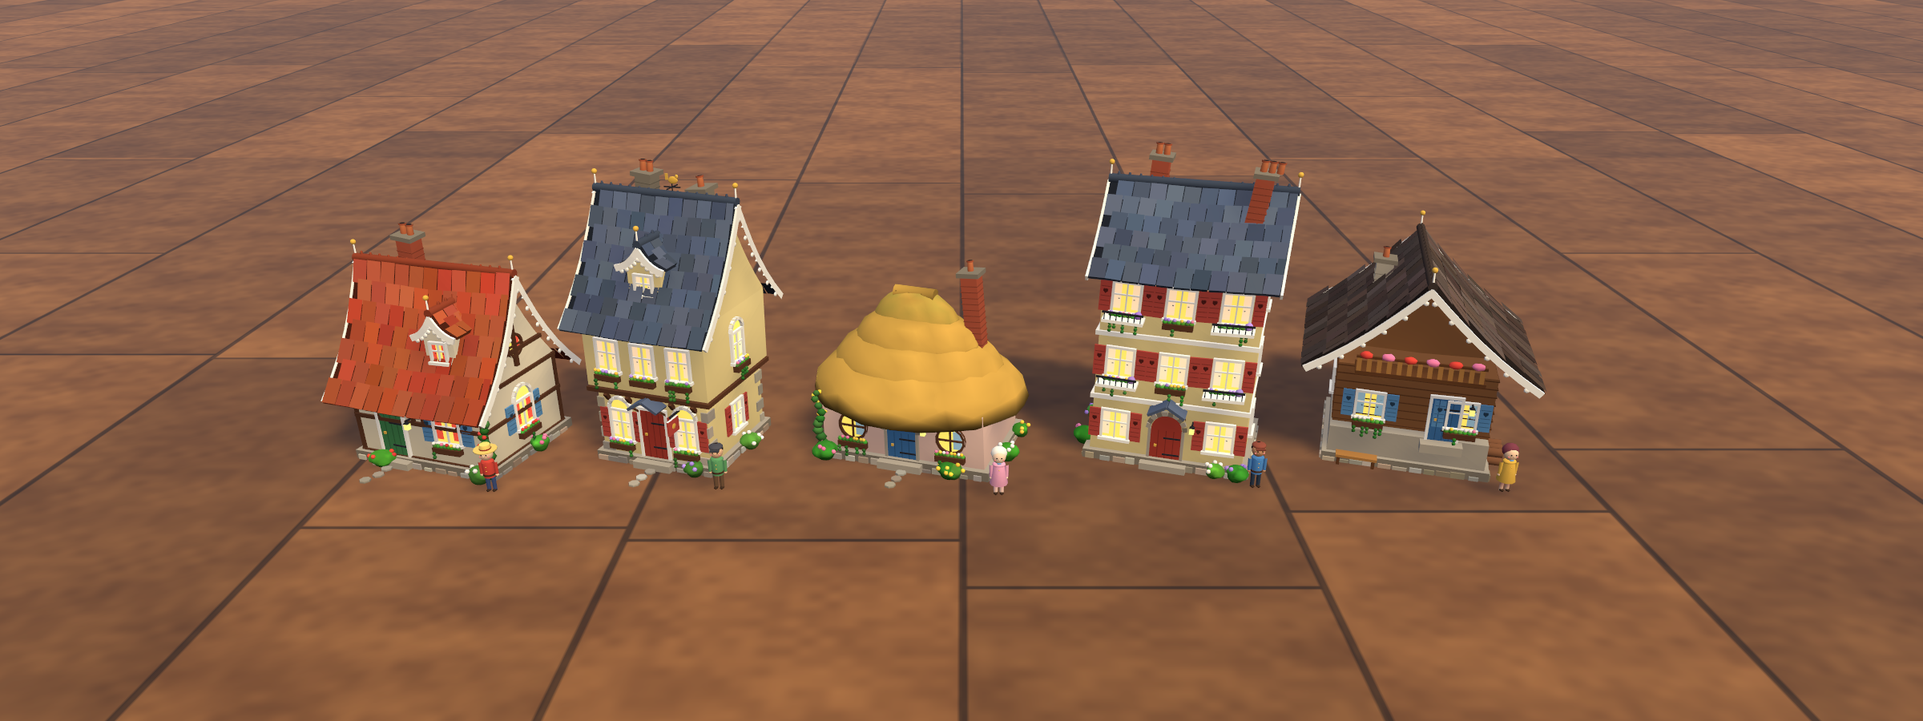
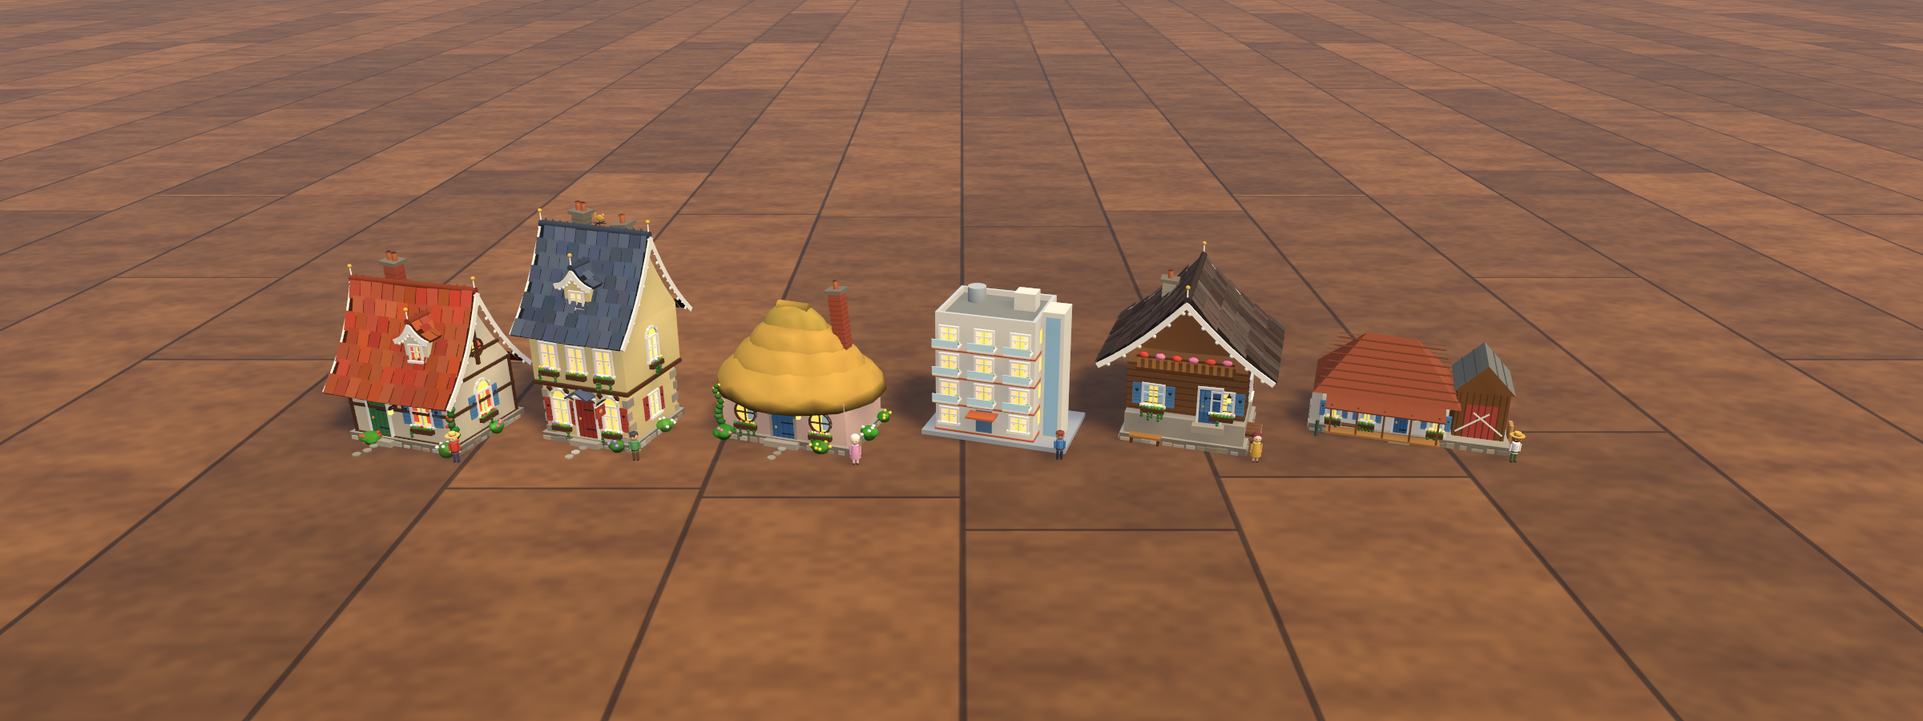
A real railway station, modern apartments, a farmhouse and a theatre
- Station: a two-storey booking hall under a hipped roof and a clock tower with its lantern, single-storey wings
  either side, and along the platform an iron-and-glass canopy on cast columns with brackets and a saw-tooth
  valance, a hanging clock, the nameboard and benches (it was a cottage with an awning).
- Apartments: a modern flat-roofed block - four storeys of windows and balconies with glass railings and plants,
  a glass stair tower, an entrance canopy, a tank and lift housing on the roof (it was a big gabled townhouse).
- New: the farmhouse (Homes > Country), long and low under a deep half-hipped roof, its timber barn wing with big
  doors, a porch with a bench, a pump and a woodpile - home to a farming family; and the theatre (Town > Civic):
  six columns under a pediment, THEATRE in light bulbs over the doors, posters, and the tall fly tower behind. It
  opens 18-23 with an usher, and draws its audience in the evening.

Tests: journey 397, rail, town and interaction suites pass.

diff --git a/Assets/Wonderland/Scripts/Assets/HouseFactory.Overhaul.cs b/Assets/Wonderland/Scripts/Assets/HouseFactory.Overhaul.cs
@@ -16,7 +16,8 @@ namespace Wonderland
     {
         /// <summary>Whether a building has its own design here (and its signs with it).</summary>
         private static bool IsOverhauled(int id) => id is Catalog.Bakery or Catalog.Cafe or Catalog.Grocer or Catalog.Restaurant or Catalog.FurnitureShop or Catalog.IceCream
-            or Catalog.Pub or Catalog.PostOffice or Catalog.School or Catalog.FireStation or Catalog.Police or Catalog.Hospital or Catalog.Hotel;
+            or Catalog.Pub or Catalog.PostOffice or Catalog.School or Catalog.FireStation or Catalog.Police or Catalog.Hospital or Catalog.Hotel
+            or Catalog.Apartments or Catalog.Farmhouse or Catalog.Theatre;
 
         private static float Overhauled(MeshBuilder b, ref Rng rng, Style s, int id, int style, out bool warp)
         {
@@ -40,7 +41,12 @@ namespace Wonderland
                 case Catalog.Police: return PoliceBlock(b, ref rng);
                 case Catalog.Hospital: return HospitalWings(b, ref rng);
                 case Catalog.Hotel: return GrandHotel(b, ref rng, s);
+                case Catalog.Apartments: return ApartmentBlock(b, ref rng, s, style);
+                case Catalog.Theatre: return TheatreHouse(b, ref rng, s);
             }
+            warp = true;
+            if (id == Catalog.Farmhouse) return FarmhouseLong(b, ref rng, s);
+            warp = false;
             return -1f;
         }
 
@@ -605,6 +611,178 @@ namespace Wonderland
                 b.Pop();
             }
             return 0.004f + wallH + 0.05f;
+        }
+
+        // ---------------------------------------------------------------- the rest of the town
+
+        /// <summary>
+        /// The railway station: a two-storey booking hall under a hipped roof with its clock tower and lantern, a
+        /// single-storey wing either side, and along the platform (the front, -Z) an iron-and-glass canopy on cast columns
+        /// with brackets, a clock hanging from it, the nameboard, benches and the way out through tall arched doors.
+        /// </summary>
+        private static float RailwayStation(MeshBuilder b, ref Rng rng, Style s)
+        {
+            const float back = 0.01f;   // (the building stands back from the platform's edge, under the canopy)
+            var brick = Pal.Hex("#B4644A"); var stone = Pal.Hex("#EDE3CC"); var iron = Pal.Hex("#2E4A3E"); var roof = Pal.Hex("#4A4E5A");
+            b.AddBox(new Vector3(0f, 0.002f, back), new Vector3(0.12f, 0.004f, 0.052f), Pal.Hex("#B9B2A4"));
+            // The hall and its wings.
+            b.AddBox(new Vector3(0f, 0.004f + 0.03f, back + 0.006f), new Vector3(0.05f, 0.06f, 0.04f), brick, brick, brick);
+            HipRoof(b, new Vector3(0f, 0.064f, back + 0.006f), 0.05f, 0.04f, 0.022f, roof);
+            foreach (int sx in new[] { -1, 1 })
+            {
+                b.AddBox(new Vector3(sx * 0.042f, 0.004f + 0.018f, back + 0.008f), new Vector3(0.034f, 0.036f, 0.034f), brick, brick, brick);
+                HipRoof(b, new Vector3(sx * 0.042f, 0.04f, back + 0.008f), 0.034f, 0.034f, 0.014f, roof);
+                for (int k = 0; k < 2; k++) WallWindow(b, ref rng, s, new Vector3(sx * 0.042f + (k - 0.5f) * 0.016f, 0.022f, back - 0.0092f), Vector3.back, 0.009f, 0.016f, false, false, true);
+            }
+            b.AddBox(new Vector3(0f, 0.04f, back - 0.014f), new Vector3(0.052f, 0.002f, 0.001f), stone);   // a string course
+            foreach (int sx in new[] { -1, 0, 1 })
+                if (sx == 0) WallDoor(b, ref rng, s, new Vector3(0f, 0.004f, back - 0.014f), Vector3.back, 0.014f, 0.03f, true);
+                else WallWindow(b, ref rng, s, new Vector3(sx * 0.016f, 0.024f, back - 0.014f), Vector3.back, 0.01f, 0.02f, false, false, true);
+            for (int k = 0; k < 3; k++) WallWindow(b, ref rng, s, new Vector3((k - 1) * 0.016f, 0.052f, back - 0.014f), Vector3.back, 0.008f, 0.012f);
+            // The clock tower with its lantern.
+            var tower = new Vector3(0f, 0.07f, back + 0.006f);
+            b.AddBox(tower + Vector3.up * 0.015f, new Vector3(0.018f, 0.03f, 0.018f), brick, brick, brick);
+            b.Push(tower + new Vector3(0f, 0.02f, -0.0092f), Quaternion.FromToRotation(Vector3.up, Vector3.back));
+            b.AddCylinder(Vector3.zero, 0.0065f, 0.0065f, 0.001f, 16, Pal.Brass, Pal.Glow(Pal.Hex("#FFF6E0")), true);
+            b.Pop();
+            b.AddBox(tower + Vector3.up * 0.031f, new Vector3(0.021f, 0.002f, 0.021f), stone);
+            foreach (int sx in new[] { -1, 1 }) foreach (int sz in new[] { -1, 1 }) b.AddBox(tower + new Vector3(sx * 0.007f, 0.037f, sz * 0.007f), new Vector3(0.0018f, 0.01f, 0.0018f), stone);
+            b.AddCylinder(tower + Vector3.up * 0.042f, 0.012f, 0.0008f, 0.018f, 4, roof, Pal.Shade(roof, 1.2f), true, false, false, Mathf.PI / 4f);
+            WeatherVane(b, tower + Vector3.up * 0.06f);
+            // The platform canopy: glass on iron, columns with brackets, a valance of saw-tooth boards.
+            const float cz = -0.026f, cw = 0.12f;
+            b.Push(new Vector3(0f, 0.034f, cz + 0.006f), Quaternion.Euler(-8f, 0f, 0f));
+            b.AddBox(Vector3.zero, new Vector3(cw, 0.0012f, 0.028f), new Color(0.78f, 0.88f, 0.9f, 1f));
+            if (!b.TooSmall(0.002f)) for (int k = 0; k <= 12; k++) b.AddBox(new Vector3(-cw / 2 + k * cw / 12f, 0.0008f, 0f), new Vector3(0.0009f, 0.0009f, 0.028f), iron);
+            b.Pop();
+            for (int k = 0; k < 5; k++)
+            {
+                float x = -cw / 2 + 0.008f + k * (cw - 0.016f) / 4f;
+                b.AddCylinder(new Vector3(x, 0.004f, cz - 0.004f), 0.0011f, 0.0009f, 0.029f, 8, iron, iron, false);
+                if (!b.TooSmall(0.002f)) { b.Push(new Vector3(x, 0.03f, cz - 0.002f), Quaternion.Euler(45f, 0f, 0f)); b.AddBox(Vector3.zero, new Vector3(0.0008f, 0.008f, 0.0008f), iron); b.Pop(); }
+            }
+            if (!b.TooSmall(0.002f)) for (int k = 0; k < 24; k++) b.AddTriangleOutward(new Vector3(-cw / 2 + k * cw / 24f, 0.032f, cz - 0.0075f), new Vector3(-cw / 2 + (k + 1) * cw / 24f, 0.032f, cz - 0.0075f), new Vector3(-cw / 2 + (k + 0.5f) * cw / 24f, 0.028f, cz - 0.0075f), new Vector3(0f, 0.03f, 0f), Pal.Hex("#F2E3C2"));
+            // The hanging clock, the nameboard, benches.
+            b.AddBox(new Vector3(0.02f, 0.03f, cz - 0.002f), new Vector3(0.0006f, 0.004f, 0.0006f), iron);
+            b.AddCylinder(new Vector3(0.02f, 0.027f, cz - 0.0045f), 0.0035f, 0.0035f, 0.005f, 14, Pal.Hex("#F7F1E6"), Pal.Hex("#F7F1E6"), true, true, true);
+            Lettering.Board(b, "STATION", new Vector3(-0.02f, 0.024f, cz - 0.004f), Vector3.back, 0.0034f, Pal.Hex("#1F3E7A"), Pal.Hex("#F7F1E6"), iron);
+            foreach (float x in new[] { -0.042f, 0.042f }) { b.AddBox(new Vector3(x, 0.008f, cz + 0.004f), new Vector3(0.016f, 0.0012f, 0.005f), Pal.Hex("#8A5A34")); b.AddBox(new Vector3(x, 0.011f, cz + 0.0065f), new Vector3(0.016f, 0.004f, 0.0009f), Pal.Hex("#8A5A34")); }
+            return 0.11f;
+        }
+
+        /// <summary>
+        /// Apartments: a modern four-storey block, flat-roofed, its front a grid of windows and balconies with railings
+        /// and plants, a glass stair tower to one side, an entrance canopy, and a water tank and lift housing on the roof.
+        /// </summary>
+        private static float ApartmentBlock(MeshBuilder b, ref Rng rng, Style s, int style)
+        {
+            const float w = 0.1f, d = 0.07f, h = 0.1f;
+            var walls = new[] { Pal.Hex("#E8E2D6"), Pal.Hex("#D9C8B4"), Pal.Hex("#C8D4D8"), Pal.Hex("#E2D2C2") };
+            var wall = walls[style % 4]; var accent = new[] { Pal.Hex("#C8653A"), Pal.Hex("#3E6A8A"), Pal.Hex("#5A8A4A"), Pal.Hex("#8A4A5A") }[style % 4];
+            b.AddBox(new Vector3(0f, 0.002f, 0f), new Vector3(w + 0.024f, 0.004f, d + 0.006f), Pal.Hex("#A6AAB0"));
+            b.AddBox(new Vector3(-0.008f, 0.004f + h / 2, 0f), new Vector3(w - 0.016f, h, d), wall, wall, wall);
+            FlatRoof(b, new Vector3(-0.008f, 0.004f + h, 0f), w - 0.016f, d, wall, Pal.Hex("#C8CCD2"));
+            for (int f = 0; f < 4; f++)
+            {
+                float y = 0.004f + 0.006f + f * 0.024f;
+                b.AddBox(new Vector3(-0.008f, y - 0.004f, 0f), new Vector3(w - 0.014f, 0.0014f, d + 0.002f), accent);
+                for (int k = 0; k < 3; k++)
+                {
+                    float x = -0.008f - 0.03f + k * 0.03f;
+                    if (f == 0 && k == 1) { b.AddFace(new Vector3(x, y + 0.008f, -d / 2 - 0.0003f), Vector3.back, Vector3.up, 0.007f, 0.01f, Pal.Hex("#5A7A9A")); continue; }
+                    WallWindow(b, ref rng, s, new Vector3(x, y + 0.01f, -d / 2), Vector3.back, 0.014f, 0.012f);
+                    if (f == 0) continue;
+                    // A balcony: a slab, a railing and a pot plant.
+                    b.AddBox(new Vector3(x, y + 0.002f, -d / 2 - 0.006f), new Vector3(0.022f, 0.0014f, 0.012f), wall);
+                    b.AddBox(new Vector3(x, y + 0.006f, -d / 2 - 0.0118f), new Vector3(0.022f, 0.006f, 0.0008f), new Color(0.78f, 0.9f, 0.95f, 1f));
+                    if (!b.TooSmall(0.003f)) b.AddBlob(new Vector3(x + 0.008f, y + 0.005f, -d / 2 - 0.006f), Vector3.one * 0.0022f, 1, 0.2f, f * 3 + k, (_, __) => Pal.Hex("#5E9A4A"));
+                }
+            }
+            foreach (int sx in new[] { -1, 1 }) for (int f = 0; f < 4; f++) for (int k = 0; k < 2; k++) b.AddFace(new Vector3(-0.008f + sx * (w - 0.016f) / 2f + sx * 0.0003f, 0.004f + 0.016f + f * 0.024f, (k - 0.5f) * 0.03f), sx > 0 ? Vector3.right : Vector3.left, Vector3.up, 0.006f, 0.006f, Pal.Glow(Pal.WindowGlow));
+            // The stair tower: glass on the front, a little taller.
+            var st = new Vector3(w / 2 - 0.004f, 0f, -0.012f);
+            b.AddBox(st + Vector3.up * (0.004f + (h + 0.012f) / 2), new Vector3(0.018f, h + 0.012f, 0.026f), wall, wall, wall);
+            b.AddFace(st + new Vector3(0f, 0.004f + (h + 0.012f) / 2, -0.0133f), Vector3.back, Vector3.up, 0.006f, (h + 0.004f) / 2, new Color(0.62f, 0.78f, 0.88f, 1f));
+            // The canopy over the entrance, the roof's tank and lift housing.
+            b.AddBox(new Vector3(-0.008f, 0.026f, -d / 2 - 0.007f), new Vector3(0.024f, 0.0016f, 0.014f), accent);
+            b.AddCylinder(new Vector3(-0.03f, 0.004f + h, 0.015f), 0.008f, 0.008f, 0.014f, 12, Pal.Hex("#9AA0A8"), Pal.Hex("#B8BEC4"), true);
+            b.AddBox(new Vector3(0.015f, 0.004f + h + 0.008f, 0.01f), new Vector3(0.018f, 0.016f, 0.016f), wall);
+            return 0.004f + h + 0.016f;
+        }
+
+        /// <summary>
+        /// The farmhouse: a long, low house under a deep half-hipped roof sweeping down almost to the ground floor, a
+        /// timber barn wing attached at the side with its big doors, a porch with a bench along the front, a pump, a
+        /// vegetable patch and a woodpile.
+        /// </summary>
+        private static float FarmhouseLong(MeshBuilder b, ref Rng rng, Style s)
+        {
+            const float w = 0.1f, d = 0.06f, wallH = 0.032f;
+            var white = Pal.Hex("#F2ECE0"); var timber = Pal.Hex("#7A4E2C");
+            Foundation(b, ref rng, w + 0.05f, d);
+            b.AddBox(new Vector3(-0.02f, 0.004f + wallH / 2, 0f), new Vector3(w, wallH, d), white, white, white);
+            HipRoof(b, new Vector3(-0.02f, 0.004f + wallH, 0f), w, d, 0.045f, Pal.Hex("#8E4A34"), 0.008f);
+            // The half-hips: gable triangles in the roof's ends.
+            foreach (int sx in new[] { -1, 1 })
+            {
+                var c = new Vector3(-0.02f + sx * (w / 2 - 0.006f), 0.004f + wallH + 0.02f, 0f);
+                b.AddTriangleOutward(c + new Vector3(0f, -0.012f, -0.014f), c + new Vector3(0f, -0.012f, 0.014f), c + new Vector3(0f, 0.012f, 0f), c - new Vector3(sx * 0.02f, 0f, 0f), white);
+            }
+            // The barn wing.
+            var barn = new Vector3(0.055f, 0f, 0.004f);
+            b.AddBox(barn + Vector3.up * (0.004f + 0.022f), new Vector3(0.04f, 0.044f, 0.052f), timber, timber, timber);
+            if (!b.TooSmall(0.002f)) for (int k = 0; k < 8; k++) b.AddBox(barn + new Vector3(-0.0175f + k * 0.005f, 0.026f, -0.0262f), new Vector3(0.0008f, 0.044f, 0.0006f), Pal.Shade(timber, 0.75f));
+            GableRoofColoured(b, barn + Vector3.up * 0.048f, 0.046f, 0.058f, 0.024f, Pal.Hex("#6A6A66"), timber, alongZ: true);
+            b.AddFace(barn + new Vector3(0f, 0.02f, -0.0262f), Vector3.back, Vector3.up, 0.012f, 0.016f, Pal.Hex("#B8483E"));
+            if (!b.TooSmall(0.002f)) foreach (int sx in new[] { -1, 1 }) { b.Push(barn + new Vector3(sx * 0.006f, 0.02f, -0.0266f), Quaternion.Euler(0f, 0f, sx * 53f)); b.AddBox(Vector3.zero, new Vector3(0.0012f, 0.03f, 0.0006f), white); b.Pop(); }
+            // Windows with shutters, the door, the porch.
+            for (int k = 0; k < 4; k++)
+            {
+                float x = -0.06f + k * 0.027f;
+                if (k == 2) WallDoor(b, ref rng, s, new Vector3(x, 0.004f, -d / 2), Vector3.back, 0.011f, 0.025f);
+                else WallWindow(b, ref rng, s, new Vector3(x, 0.02f, -d / 2), Vector3.back, 0.01f, 0.012f, true, true);
+            }
+            b.AddBox(new Vector3(-0.02f, 0.005f, -d / 2 - 0.008f), new Vector3(0.09f, 0.002f, 0.016f), Pal.Hex("#A8743E"));
+            for (int k = 0; k < 5; k++) b.AddBox(new Vector3(-0.062f + k * 0.021f, 0.018f, -d / 2 - 0.015f), new Vector3(0.0016f, 0.026f, 0.0016f), timber);
+            b.Push(new Vector3(-0.02f, 0.031f, -d / 2 - 0.009f), Quaternion.Euler(-20f, 0f, 0f));
+            b.AddBox(Vector3.zero, new Vector3(0.094f, 0.0014f, 0.02f), Pal.Hex("#8E4A34"));
+            b.Pop();
+            b.AddBox(new Vector3(-0.045f, 0.009f, -d / 2 - 0.004f), new Vector3(0.016f, 0.0012f, 0.005f), timber);
+            // The pump, the woodpile and the vegetable patch.
+            b.AddCylinder(new Vector3(-0.072f, 0f, -0.045f), 0.0015f, 0.0015f, 0.014f, 6, Pal.Hex("#3A5A4A"), Pal.Hex("#3A5A4A"), true);
+            for (int k = 0; k < 6; k++) b.AddCylinder(new Vector3(0.08f, 0.0025f + (k / 3) * 0.004f, -0.015f + (k % 3) * 0.004f), 0.0018f, 0.0018f, 0.012f, 6, Pal.Hex("#A8743E"), Pal.Hex("#C8945E"), true, true, true);
+            return 0.004f + wallH + 0.045f;
+        }
+
+        /// <summary>
+        /// The theatre: a temple front of six columns under a great pediment, a marquee over the doors framed in light
+        /// bulbs with THEATRE on it, posters either side, and behind it all the tall plain fly tower that every theatre has.
+        /// </summary>
+        private static float TheatreHouse(MeshBuilder b, ref Rng rng, Style s)
+        {
+            var stone = Pal.Hex("#EDE0C8"); var red = Pal.Hex("#8E2F3A"); var gold = Pal.Hex("#E0B040");
+            b.AddBox(new Vector3(0f, 0.003f, 0f), new Vector3(0.124f, 0.006f, 0.1f), Pal.Shade(stone, 0.9f));
+            for (int k = 0; k < 3; k++) b.AddBox(new Vector3(0f, 0.001f + k * 0.002f, -0.054f - k * 0.003f), new Vector3(0.07f, 0.002f, 0.004f), Pal.Shade(stone, 0.95f));
+            // The auditorium and, behind it, the fly tower.
+            b.AddBox(new Vector3(0f, 0.006f + 0.035f, 0.005f), new Vector3(0.11f, 0.07f, 0.07f), stone, stone, stone);
+            HipRoof(b, new Vector3(0f, 0.076f, 0.005f), 0.11f, 0.07f, 0.018f, Pal.Hex("#5EA88A"));
+            b.AddBox(new Vector3(0f, 0.006f + 0.06f, 0.034f), new Vector3(0.07f, 0.12f, 0.03f), Pal.Shade(stone, 0.92f), Pal.Shade(stone, 0.96f), stone);
+            // The portico.
+            for (int k = 0; k < 6; k++) b.AddCylinder(new Vector3(-0.04f + k * 0.016f, 0.006f, -0.042f), 0.003f, 0.0026f, 0.052f, 12, stone, stone, true);
+            b.AddBox(new Vector3(0f, 0.061f, -0.038f), new Vector3(0.094f, 0.007f, 0.014f), stone);
+            var top = new Vector3(0f, 0.088f, -0.045f); var l = new Vector3(-0.048f, 0.065f, -0.045f); var r = new Vector3(0.048f, 0.065f, -0.045f);
+            b.AddTriangleOutward(l, r, top, top + Vector3.forward * 0.02f + Vector3.down * 0.01f, stone);
+            b.AddTriangleOutward(l, top, top + Vector3.forward * 0.012f, new Vector3(0.03f, 0.07f, -0.04f), Pal.Shade(stone, 0.92f));
+            b.AddTriangleOutward(r, top + Vector3.forward * 0.012f, top, new Vector3(-0.03f, 0.07f, -0.04f), Pal.Shade(stone, 0.92f));
+            b.AddBlob(new Vector3(0f, 0.073f, -0.0455f), new Vector3(0.006f, 0.004f, 0.0008f), 1, 0f, 4, (_, __) => gold);   // the masks
+            // Doors, the marquee in bulbs, posters.
+            for (int k = -1; k <= 1; k++) WallDoor(b, ref rng, new Style { Door = red, Trim = s.Trim, Plaster = stone, Curtain = s.Curtain, Flower = s.Flower, Shutter = s.Shutter, Roof = s.Roof, Timber = s.Timber }, new Vector3(k * 0.02f, 0.006f, -0.0302f), Vector3.back, 0.012f, 0.028f, true);
+            b.AddBox(new Vector3(0f, 0.038f, -0.05f), new Vector3(0.07f, 0.012f, 0.012f), red, red, red);
+            Lettering.Add(b, "THEATRE", new Vector3(0f, 0.038f, -0.0562f), Vector3.back, 0.0055f, 0.0005f, gold);
+            if (!b.TooSmall(0.002f))
+                for (int k = 0; k < 18; k++) { float x = -0.034f + k * 0.004f; foreach (float y in new[] { 0.0322f, 0.0438f }) b.AddBlob(new Vector3(x, y, -0.0563f), Vector3.one * 0.0007f, 0, 0f, k, (_, __) => Pal.Glow(Pal.Hex("#FFE9B0"))); }
+            foreach (int sx in new[] { -1, 1 }) b.AddFace(new Vector3(sx * 0.05f, 0.025f, -0.0302f), Vector3.back, Vector3.up, 0.006f, 0.009f, sx < 0 ? Pal.Hex("#2E4E7A") : Pal.Hex("#C8392E"));
+            return 0.126f;
         }
     }
 }

diff --git a/Assets/Wonderland/Scripts/Assets/Catalog.cs b/Assets/Wonderland/Scripts/Assets/Catalog.cs
@@ -117,7 +117,7 @@ namespace Wonderland
             Camera = 50, Balloon = 51, Jetty = 52, RowingBoat = 53, SailingBoat = 54, Steamer = 55, Halt = 56, TaxiRank = 57,
             Sawmill = 58, FurnitureShop = 59, IceCream = 60, Pub = 61, Hotel = 62, PostOffice = 63, Letterbox = 64, CarPark = 65, FreightYard = 66, Harbour = 67, Zoo = 68, FairyCastle = 69, Stadium = 70, Zebra = 71,
             ZooGate = 72, ZooPlaza = 73, Savanna = 74, ElephantHouse = 75, LionRock = 76, PenguinPool = 77, MonkeyIsland = 78, Aviary = 79, TropicalHouse = 80,
-            PettingZoo = 81, ZooKiosk = 82, SafariCafe = 83, ZooGarden = 84, BusStop = 85;
+            PettingZoo = 81, ZooKiosk = 82, SafariCafe = 83, ZooGarden = 84, BusStop = 85, Farmhouse = 86, Theatre = 87;
 
         /// <summary>A station of any size (the big one, or a country halt): trains stop beside it.</summary>
         public static bool IsStation(int variant) => variant == Station || variant == Halt || variant == FreightYard;
@@ -292,6 +292,10 @@ namespace Wonderland
             list.Add(new() { Name = "Bus stop", Short = "Bus stop", Category = PlaceCategory.Travel, Half = new Vector2(0.024f, 0.012f), Height = 0.045f, Pad = false, Small = true, Styles = 1,
                 Hint = "buses call here - put it beside a road",
                 Spots = new[] { new ActivitySpot(-0.007f, -0.004f, SpotKind.Sit, 180f), new ActivitySpot(0.007f, -0.004f, SpotKind.Sit, 180f), new ActivitySpot(0.018f, -0.018f, SpotKind.Gather, 90f) } });
+            list.Add(new() { Name = "Farmhouse", Short = "Farmhouse", Category = PlaceCategory.Homes, Half = new Vector2(0.088f, 0.05f), Height = 0.085f, Residents = 2, Styles = 4,
+                Spots = new[] { Door(0.034f, 0.05f), new ActivitySpot(-0.045f, -0.06f, SpotKind.Sit, 180f) } });
+            list.Add(new() { Name = "Theatre", Short = "Theatre", Category = PlaceCategory.Town, Half = new Vector2(0.064f, 0.062f), Height = 0.13f, Styles = 1, Hint = "an audience every evening",
+                Spots = new[] { Door(0f, 0.062f), new ActivitySpot(-0.03f, -0.075f, SpotKind.Gather), new ActivitySpot(0f, -0.08f, SpotKind.Gather), new ActivitySpot(0.03f, -0.075f, SpotKind.Gather), new ActivitySpot(0.045f, -0.068f, SpotKind.Watch, -20f) } });
             for (int i = 0; i < list.Count; i++) list[i].Id = i;
             // What each place is for: the needs it satisfies decide who comes and when (see Needs).
             foreach (var b in list)
@@ -306,6 +310,7 @@ namespace Wonderland
                     ZooKiosk or SafariCafe => Need.Food,
                     ZooPlaza => Need.Rest,
                     BusStop => Need.Social,
+                    Theatre => Need.Fun,
                     Bench or LogPile or HayBales => Need.Rest,
                     _ => b.Category == PlaceCategory.Homes ? Need.Rest : Need.None,
                 };
@@ -345,6 +350,8 @@ namespace Wonderland
             Work(Hotel, "hotel keeper", 7f, 21f);
             Hours(PostOffice, 9f, 17.5f); Work(PostOffice, "postmaster", 8f, 17.5f);
             Hours(Zoo, 9f, 18f); Work(Zoo, "zookeeper", 8f, 18f);
+            Hours(Theatre, 18f, 23f); Work(Theatre, "usher", 17.5f, 23f, true);
+            list[Theatre].Rhythm = new[] { 0f, 0f, 0f, 0f, 0f, 0.05f, 0.9f, 1f, 0.4f };   // the evening performance
             foreach (int id in new[] { ZooGate, Savanna, ElephantHouse, LionRock, PenguinPool, MonkeyIsland, Aviary, TropicalHouse, PettingZoo, ZooKiosk, SafariCafe }) Hours(id, 9f, 18f);
             Work(ZooGate, "ticket seller", 8.5f, 18f); Work(ElephantHouse, "elephant keeper", 7.5f, 17.5f); Work(Savanna, "zookeeper", 8f, 18f);
             Work(ZooKiosk, "kiosk keeper", 9f, 18f, false, Goods.Sells); Work(SafariCafe, "cook", 9f, 18f, false, Goods.Sells);

diff --git a/Assets/Wonderland/Scripts/Assets/Catalog.Library.cs b/Assets/Wonderland/Scripts/Assets/Catalog.Library.cs
@@ -34,10 +34,12 @@ namespace Wonderland
             D(Thatched, "Cottages", "A long, low house under a deep straw roof - home to one villager");
             D(Chalet, "Cottages", "A timber mountain chalet with a wide balcony and a bench outside");
             D(Townhouse, "Town homes", "A narrow, tall town house - home to one villager");
-            D(Apartments, "Town homes", "A block of flats over several floors - home to two households");
+            D(Farmhouse, "Country", "A long, low farmhouse under a sweeping roof, its barn wing attached - home to a farming family");
+            D(Apartments, "Town homes", "A modern block of flats, balconies on every floor - home to two households");
             // Town.
             D(TownHall, "Civic", "The seat of the village: a clock tower over a pillared front, the clerk at work inside");
             D(Church, "Civic", "A church with a tall spire and a clock - people gather on its steps");
+            D(Theatre, "Civic", "Columns, a pediment, THEATRE in lights and the tall fly tower behind: an audience every evening");
             D(Museum, "Civic", "Halls of curiosities behind a columned portico, a dinosaur in the courtyard");
             D(Hotel, "Civic", "A grand hotel: guests stay and go sightseeing round the village", "near the shops and sights");
             D(Fountain, "Squares", "A fountain for the village square - people meet round its rim");

diff --git a/Assets/Wonderland/Scripts/Assets/HouseFactory.cs b/Assets/Wonderland/Scripts/Assets/HouseFactory.cs
@@ -81,7 +81,7 @@ namespace Wonderland
                 case 0: height = Cottage(b, ref rng, s); break;
                 case 1: height = Townhouse(b, ref rng, s); break;
                 case 2: height = Thatched(b, ref rng, s); break;
-                case 3: height = StationHouse(b, ref rng, s); break;
+                case 3: height = RailwayStation(b, ref rng, s); break;
                 default:
                     height = Place(b, ref rng, s, variant, style, out bool warp);
                     if (!warp) { Signage(b, variant); return b.ToMesh($"Place_{Catalog.Get(variant).Name}_{style}"); }

diff --git a/README.md b/README.md
@@ -492,6 +492,10 @@ it. Nothing needs connecting by hand, and nothing is invented that the world doe
   - A harbour alone on its pond stays quiet.
 - **Shops, pubs and attractions.** The ice cream parlour is busiest on afternoons, and the pub in the evenings.
   - The hotel houses guests.
+  - **New in the library:** a farmhouse (Homes > Country: long and low under a sweeping half-hipped roof, its barn
+    wing attached) and a theatre (Town > Civic: a temple front, THEATRE in lights, the tall fly tower behind; an
+    audience every evening). The station is a proper station now - a booking hall under a clock tower, wings either
+    side, an iron-and-glass canopy along the platform - and the apartments a modern block with balconies.
   - **Bus stops** (Build > Travel > Road): put one beside a road and the buses call there - they draw in, stand a
     few seconds while the people waiting get on, and pull away.
   - **Junctions** are drawn as one piece where roads meet: each road stops at the junction's mouth, the kerbs and
